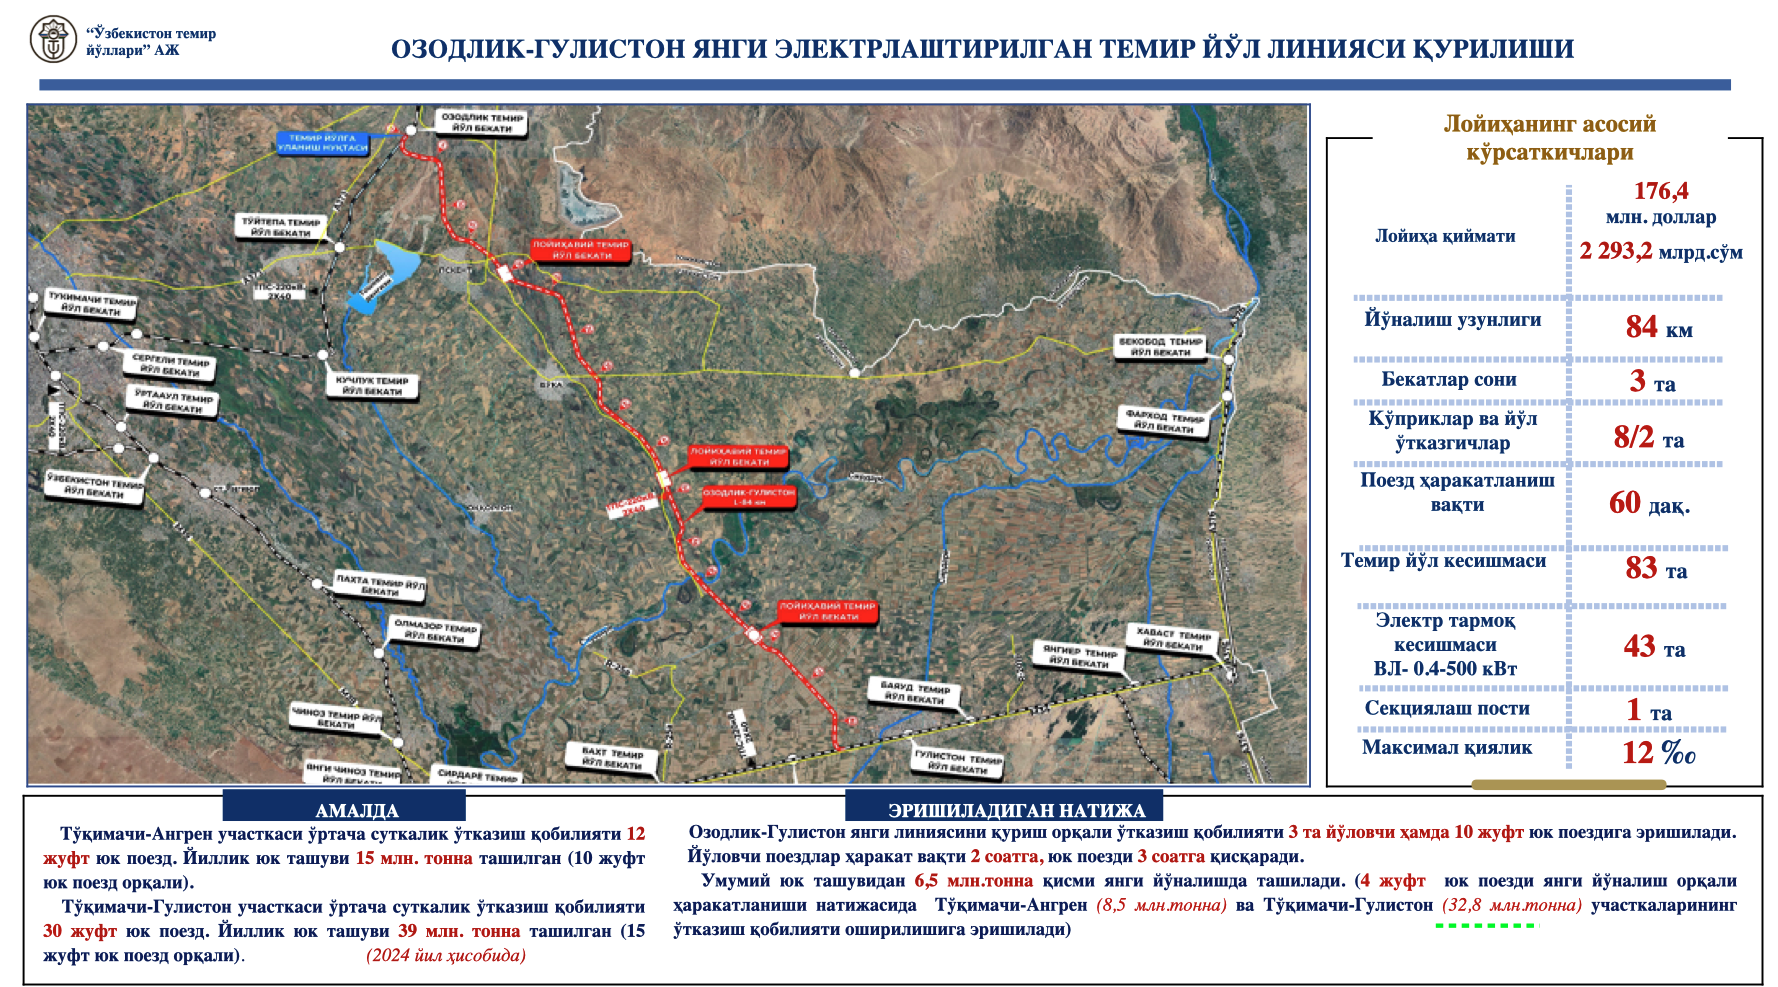
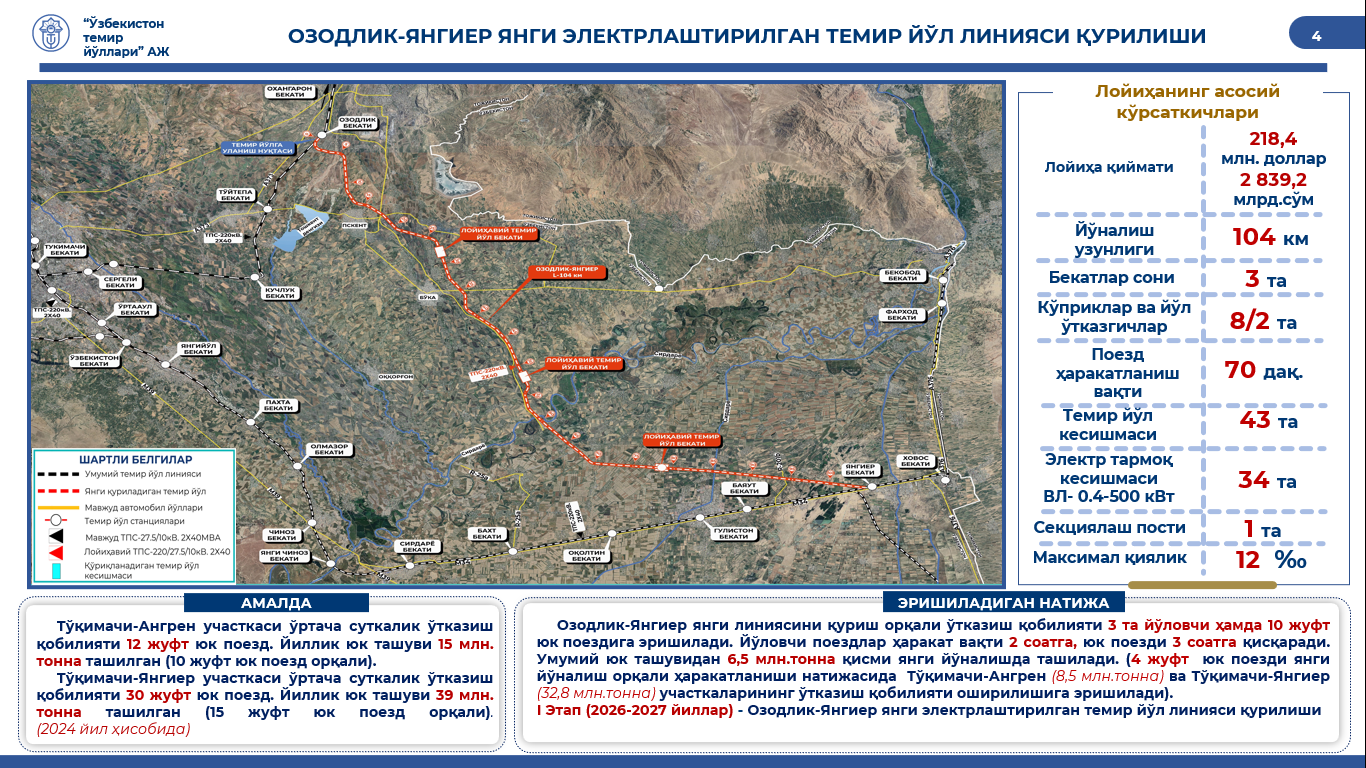
update

diff --git a/src/pages/TrainLine/TrainLine.vue b/src/pages/TrainLine/TrainLine.vue
@@ -193,9 +193,9 @@ function init() {
 
 const actions = {
   clearLayers() {
+    this.clearTimedEvent()
     map.eachLayer((layer) => {
       if(layer?.options?.isMotionPolyline){
-        console.log(layer)
         map.removeLayer(layer)
       }
     })
@@ -257,6 +257,7 @@ const actions = {
 
     })
   },
+  timedEvent: null, 
   phase1start(){
     this.clearLayers()
     this.generateMotion(false)
@@ -264,6 +265,9 @@ const actions = {
       stationPaths[i].forwardMotionSequence.addTo(map)
       stationPaths[i].forwardMotionSequence.motionStart()
     }
+    this.timedEvent = setTimeout(()=>{
+      this.phase1return()
+    }, 6500)
   },
   phase1return(){
     this.clearLayers()
@@ -272,6 +276,9 @@ const actions = {
       stationPaths[i].backwardMotionSequence.addTo(map)
       stationPaths[i].backwardMotionSequence.motionStart()
     }
+    this.timedEvent = setTimeout(()=>{
+      this.phase1start()
+    }, 6500)
   },
   phase2start(){
     this.clearLayers()
@@ -280,6 +287,9 @@ const actions = {
       stationPaths[i].forwardMotionSequence.addTo(map)
       stationPaths[i].forwardMotionSequence.motionStart()
     }
+    this.timedEvent = setTimeout(()=>{
+      this.phase2return()
+    }, 6500)
   },
   phase2return(){
     this.clearLayers()
@@ -287,6 +297,15 @@ const actions = {
     for(let i=0;i<stationPaths.length;i++){
       stationPaths[i].backwardMotionSequence.addTo(map)
       stationPaths[i].backwardMotionSequence.motionStart()
+    }
+    this.timedEvent = setTimeout(()=>{
+      this.phase2start()
+    }, 6500)
+  },
+  clearTimedEvent(){
+    if(this.timedEvent){
+      clearTimeout(this.timedEvent)
+      this.timedEvent = null
     }
   }
 }
@@ -315,21 +334,13 @@ onMounted(() => {
               @click="actions.phase2start"
               class="col px-2 py-1 border-1 border-gray-200 bg-gray-50 border-round flex cursor-pointer flex align-items-center justify-content-between text-gray-600">
             <i class='bx bxs-grid-alt'></i>
-            Ҳозирги ҳолат
+            Кейинги холат
           </div>
           <div
-              @click="actions.phase1return"
-              class="col-6 px-2 py-1 border-1 border-gray-200 bg-gray-50 border-round flex cursor-pointer flex align-items-center justify-content-between text-gray-600">
-            <i class='bx bxs-grid-alt'></i>
-            Олдинги ҳолат (қайтиш)
+              @click="actions.clearLayers"
+              class="cursor-pointer" style="background-color: rgba(0, 0, 0, 0.1);">
+              &nbsp;
           </div>
-          <div
-              @click="actions.phase2return"
-              class="col px-2 py-1 border-1 border-gray-200 bg-gray-50 border-round flex cursor-pointer flex align-items-center justify-content-between text-gray-600">
-            <i class='bx bxs-grid-alt'></i>
-            Ҳозирги ҳолат (қайтиш)
-          </div>
-
         </div>
       </div>
     </div>
@@ -341,7 +352,7 @@ onMounted(() => {
 
 .train_line-container{
   width:600px;
-  height:100px;
+  height:50px;
   position:fixed;
   bottom:6px;
   left:6px;

diff --git a/src/pages/TrainLine/data.js b/src/pages/TrainLine/data.js
@@ -177,25 +177,25 @@ export const schemeUrl = schemeGraphic
 
 export const newProject = [
     {
-        name: "Озодлик Оқ олтин Гулистон электрлаштирилган темир йўл линияси",
-        finance: 2293.2,
+        name: "ОЗОДЛИК-ЯНГИЕР ЯНГИ ЭЛЕКТРЛАШТИРИЛГАН ТЕМИР ЙЎЛ ЛИНИЯСИ ҚУРИЛИШИ",
+        finance: 2839.2,
         url:presentation_one,
     },
     {
-        name: "Тошкент Янги Чиноз темир йўл оралиғида электрлаштирилган учинчи тез юрар темир йўл қурилиши",
+        name: "ТОШКЕНТ – ЯНГИ ЧИНОЗ  ТЕМИР ЙЎЛИ ОРАЛИҒИДА ЭЛЕКТИРЛАШИРИЛГАН УЧУНЧИ ТЕМИР ЙЎЛ ҚУРИЛИШИ",
         finance: 1671.87,
         url:presentation_two,
     },
     {
-        name: "Ховос Даштобод электрлаштирилган темир йўл линияси қурилиши",
+        name: "ХОВОС – ДАШТОБОД ЭЛЕКТИРЛАШТИРИЛГАН ТЕМИР ЙЎЛ ЛИНИЯСИ ҚУРИЛИШИ",
         finance: 324.8,
         url:presentation_three,
     },
-    {
-        name: "Разъезд-10 ва разъезд-19 қурилиши",
-        finance: 60,
-        url:null,
-    },
+    // {
+    //     name: "Разъезд-10 ва разъезд-19 қурилиши",
+    //     finance: 60,
+    //     url:null,
+    // },
 ]
 
 

diff --git a/src/pages/TrainLine/ui/MenuCard.vue b/src/pages/TrainLine/ui/MenuCard.vue
@@ -180,7 +180,7 @@ export default {
   width:600px;
   height:100px;
     position:fixed;
-  bottom:110px;
+  bottom:65px;
   left:6px;
   z-index:1000;
 
